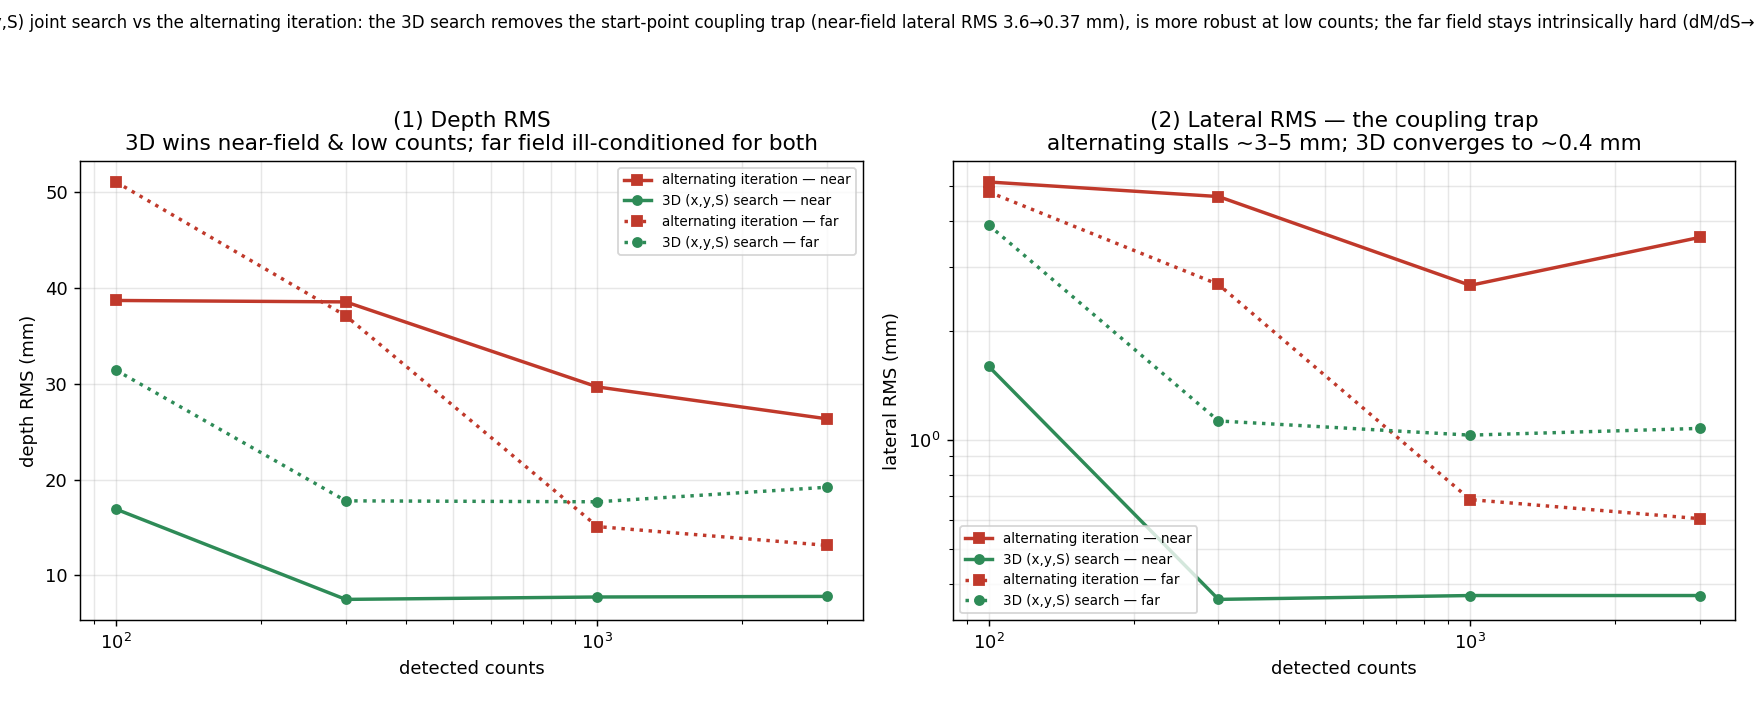
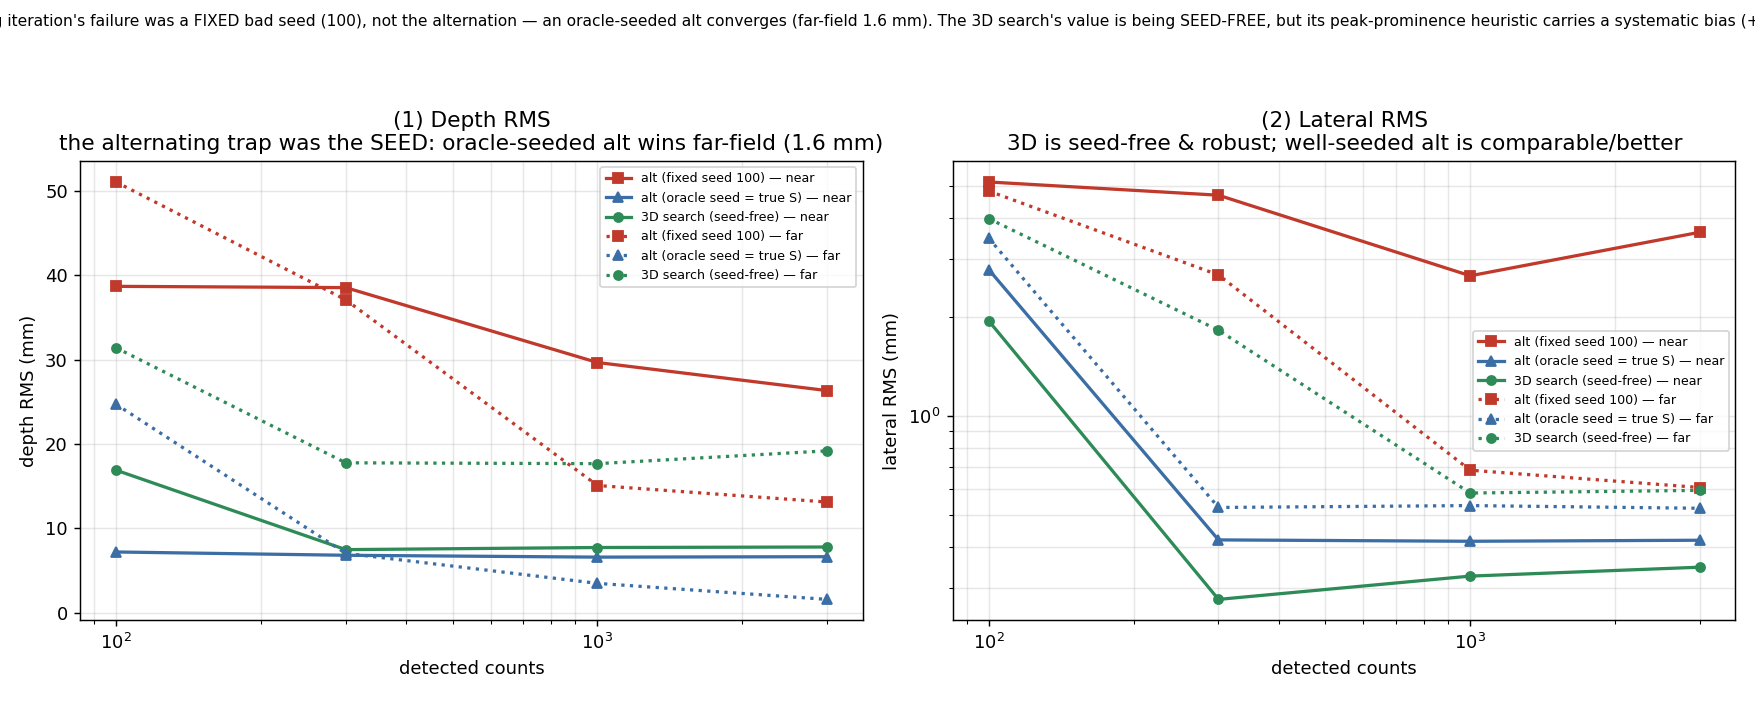
Apply Codex round-5 depth fixes: the alternating trap was the SEED
Codex challenged the theme-24 "3D decisively wins" claim. A fair 3-way comparison
(fixed seed 100 / oracle seed = true S / seed-free 3D) added to RunDepth3D shows:

- The alternating iteration's failure was the FIXED bad seed (100), not the alternation.
  Oracle-seeded alt converges: near-field lateral RMS 0.42mm; far-field depth RMS 1.6mm,
  bias 0.1 at 3000 counts -- BETTER than the 3D search everywhere, dramatically far-field.
- The 3D search's real value is being SEED-FREE. Its peak-prominence z is a HEURISTIC, not
  a calibrated GLRT/SNR (claim retracted): grid mean/std include the peak+sidelobes, giving
  a systematic bias (+7 near, -18 far) the single-point calibrated focus avoids.
- Best practice = hybrid: seed-free coarse pass to seed, alternating to refine.

Fixes: EstimateJoint3D now returns a self-consistent (x,y,S) -- lateral from the slice
nearest the depth estimate (not the global best-z slice); softened the GLRT language to
"heuristic"; RunDepth3D runs all three methods; findings 24 rewritten; test comment noted.
26 tests green.

Claude-Session: https://claude.ai/code/session_01JzXSNQYoWEuh1nUS9rXAso

diff --git a/src/Genoray.MonteCarlo.Simulation/DepthStudy.cs b/src/Genoray.MonteCarlo.Simulation/DepthStudy.cs
@@ -141,23 +141,25 @@ public sealed class DepthStudy
     }
 
     /// <summary>
-    /// Full 3D (x, y, S) joint estimate — replaces the alternating iteration and its start-point
-    /// trap. For each assumed S, decode the flood over the lateral FCFOV grid and score that slice by
-    /// its peak PROMINENCE z = (peak − grid mean)/grid std — a dimensionless, cross-S-comparable
-    /// detection statistic (the coded-aperture matched-filter SNR ≈ a GLRT). The lateral estimate is
-    /// the argmax over the whole volume; the depth is the centroid of the per-S peak-prominence
-    /// profile (same plateau-robust estimator as the on-axis depth). No nominal-S seed, no alternation.
+    /// Full 3D (x, y, S) joint estimate — replaces the alternating iteration and its start-point trap.
+    /// For each assumed S, decode the flood over the lateral FCFOV grid and score that slice by its peak
+    /// PROMINENCE z = (peak − grid mean)/grid std. NOTE: z is a HEURISTIC focus/detection score, not a
+    /// calibrated GLRT/SNR — the grid mean/std include the peak and sidelobes, so it can carry a
+    /// systematic bias across defocus (hence the far-field high-count bias). The depth is the
+    /// plateau-robust centroid of the per-S z-profile; the lateral (x, y) is taken from the slice
+    /// NEAREST that depth estimate (so (x, y, S) is self-consistent — same assumed-S plane). No
+    /// nominal-S seed, no alternation.
     /// </summary>
     private (double x, double y, double s) EstimateJoint3D(SimulationConfig cfg, DetectorImage img,
                                                            double[] assumedSmm)
     {
         var g = MuraGenerator.DecodingArray(cfg.Mask.Rank);
         var profile = new List<DepthRow>(assumedSmm.Length);
-        double bestZ = double.NegativeInfinity, bx = 0.0, by = 0.0;
+        var lateral = new (double x, double y)[assumedSmm.Length];   // per-slice argmax position
 
-        foreach (double s in assumedSmm)
+        for (int si = 0; si < assumedSmm.Length; si++)
         {
-            var dr = new CrossCorrelationDecoder(g, LateralGeometry(cfg, s)).Decode(img);
+            var dr = new CrossCorrelationDecoder(g, LateralGeometry(cfg, assumedSmm[si])).Decode(img);
             var recon = dr.Reconstruction;
             int n = recon.Width * recon.Height;
             double mean = 0.0; foreach (var v in recon.Raw) mean += v; mean /= n;
@@ -169,17 +171,19 @@ public sealed class DepthStudy
                 for (int x = 0; x < recon.Width; x++)
                     if (recon[x, y] > peak) { peak = recon[x, y]; px = x; py = y; }
 
-            double z = (peak - mean) / std;              // peak prominence: comparable across S
-            profile.Add(new DepthRow(s, z));
-            if (z > bestZ)
-            {
-                bestZ = z;
-                bx = dr.ReconOriginMm + px * dr.ReconStepMm;
-                by = dr.ReconOriginMm + py * dr.ReconStepMm;
-            }
+            profile.Add(new DepthRow(assumedSmm[si], (peak - mean) / std));
+            lateral[si] = (dr.ReconOriginMm + px * dr.ReconStepMm, dr.ReconOriginMm + py * dr.ReconStepMm);
         }
+
         double sEst = CentroidEstimate(profile);          // plateau-robust depth from the z-profile
-        return (bx, by, sEst);
+        // Lateral from the slice closest to the depth estimate -> a self-consistent (x, y, S).
+        int nearest = 0; double bestGap = double.PositiveInfinity;
+        for (int si = 0; si < assumedSmm.Length; si++)
+        {
+            double gap = Math.Abs(assumedSmm[si] - sEst);
+            if (gap < bestGap) { bestGap = gap; nearest = si; }
+        }
+        return (lateral[nearest].x, lateral[nearest].y, sEst);
     }
 
     /// <summary>Iterated joint estimate: alternate lateral decode (at the current depth) and depth

diff --git a/samples/plot_depth3d.py b/samples/plot_depth3d.py
@@ -18,34 +18,34 @@ def sel(method, scen, key):
     return (np.array([float(r["counts"]) for r in rs]),
             np.array([float(r[key]) for r in rs]))
 
-sty = {"alternating": ("#c0392b", "--", "s"), "3d": ("#2e8b57", "-", "o")}
-lab = {"alternating": "alternating iteration", "3d": "3D (x,y,S) search"}
+sty = {"alternating": ("#c0392b", "s", "alt (fixed seed 100)"),
+       "alt_oracle":  ("#3b6ea5", "^", "alt (oracle seed = true S)"),
+       "3d":          ("#2e8b57", "o", "3D search (seed-free)")}
 
 fig, (ax1, ax2) = plt.subplots(1, 2, figsize=(13.5, 5.4))
 
-for scen, mk_over in [("offaxis_near", ""), ("offaxis_far", " (far)")]:
+for scen in ("offaxis_near", "offaxis_far"):
     dash = "-" if scen == "offaxis_near" else ":"
-    for method in ("alternating", "3d"):
-        col, _, mk = sty[method]
+    tag = "near" if scen == "offaxis_near" else "far"
+    for method, (col, mk, lab) in sty.items():
         c, rms = sel(method, scen, "depth_rms_mm")
-        ax1.plot(c, rms, marker=mk, ls=dash, color=col, lw=1.9, ms=5,
-                 label=f"{lab[method]} — {'near' if scen=='offaxis_near' else 'far'}")
+        ax1.plot(c, rms, marker=mk, ls=dash, color=col, lw=1.8, ms=5, label=f"{lab} — {tag}")
         c, lrms = sel(method, scen, "lateral_rms_mm")
-        ax2.plot(c, lrms, marker=mk, ls=dash, color=col, lw=1.9, ms=5,
-                 label=f"{lab[method]} — {'near' if scen=='offaxis_near' else 'far'}")
+        ax2.plot(c, lrms, marker=mk, ls=dash, color=col, lw=1.8, ms=5, label=f"{lab} — {tag}")
 
 ax1.set_xscale("log"); ax1.set_xlabel("detected counts"); ax1.set_ylabel("depth RMS (mm)")
-ax1.set_title("(1) Depth RMS\n3D wins near-field & low counts; far field ill-conditioned for both")
-ax1.legend(fontsize=7.5); ax1.grid(alpha=0.3, which="both")
+ax1.set_title("(1) Depth RMS\nthe alternating trap was the SEED: oracle-seeded alt wins far-field (1.6 mm)")
+ax1.legend(fontsize=7); ax1.grid(alpha=0.3, which="both")
 
 ax2.set_xscale("log"); ax2.set_yscale("log")
 ax2.set_xlabel("detected counts"); ax2.set_ylabel("lateral RMS (mm)")
-ax2.set_title("(2) Lateral RMS — the coupling trap\nalternating stalls ~3–5 mm; 3D converges to ~0.4 mm")
-ax2.legend(fontsize=7.5); ax2.grid(alpha=0.3, which="both")
+ax2.set_title("(2) Lateral RMS\n3D is seed-free & robust; well-seeded alt is comparable/better")
+ax2.legend(fontsize=7); ax2.grid(alpha=0.3, which="both")
 
-fig.suptitle("Full 3D (x,y,S) joint search vs the alternating iteration: the 3D search removes the start-point "
-             "coupling trap (near-field lateral RMS 3.6→0.37 mm), is more robust at low counts; the far field stays "
-             "intrinsically hard (dM/dS→0) for both.", fontsize=9.3)
+fig.suptitle("Joint (x,y,S) depth, honestly: the alternating iteration's failure was a FIXED bad seed (100), not the "
+             "alternation — an oracle-seeded alt converges (far-field 1.6 mm). The 3D search's value is being SEED-FREE, "
+             "but its peak-prominence heuristic carries a systematic bias (+7/−18 mm). Best: 3D to seed, alt to refine.",
+             fontsize=8.6)
 fig.tight_layout(rect=[0, 0, 1, 0.93])
 out = os.path.join(here, "depth3d.png")
 fig.savefig(out, dpi=130); print("saved", out)

diff --git a/src/Genoray.MonteCarlo.Cli/Program.cs b/src/Genoray.MonteCarlo.Cli/Program.cs
@@ -383,25 +383,31 @@ static int RunDepth3D(string[] args)
     var all = new List<JointResult>();
     var csv = new System.Text.StringBuilder("method,scenario,true_x_mm,true_y_mm,true_s_mm,counts,depth_bias_mm,depth_rms_mm,lateral_rms_mm\n");
 
-    Console.WriteLine("  scenario        counts   method        depthBias  depthRMS  latRMS");
-    Console.WriteLine("  -------------   ------   -----------   ---------  --------  ------");
+    Console.WriteLine("  scenario        counts   method             depthBias  depthRMS  latRMS");
+    Console.WriteLine("  -------------   ------   ----------------   ---------  --------  ------");
     foreach (var sc in scenes)
     {
         foreach (double n in counts)
         {
+            // Fair comparison: alternating with the FIXED seed (100), alternating with an ORACLE seed
+            // (= true S, best case), and the seed-free 3D search. If alternating still stalls even with
+            // the oracle seed, the near-field win is the estimator, not just a bad seed.
             var it = study.RunNoisyJoint(baseConfig, sc.name, sc.x, sc.y, sc.s, assumed.ToArray(), nominalS, n, repeats);
+            var ito = study.RunNoisyJoint(baseConfig, sc.name, sc.x, sc.y, sc.s, assumed.ToArray(), sc.s, n, repeats);
             var d3 = study.RunNoisyJoint3D(baseConfig, sc.name, sc.x, sc.y, sc.s, assumed.ToArray(), n, repeats);
             all.Add(it); all.Add(d3);
-            Console.WriteLine($"  {sc.name,-13}   {n,5:F0}   alternating   {it.DepthBiasMm,6:F1}mm   {it.DepthRmsMm,5:F1}mm  {it.LateralRmsMm,5:F2}mm");
-            Console.WriteLine($"  {sc.name,-13}   {n,5:F0}   3D search     {d3.DepthBiasMm,6:F1}mm   {d3.DepthRmsMm,5:F1}mm  {d3.LateralRmsMm,5:F2}mm");
+            Console.WriteLine($"  {sc.name,-13}   {n,5:F0}   alt (seed 100)     {it.DepthBiasMm,6:F1}mm   {it.DepthRmsMm,5:F1}mm  {it.LateralRmsMm,5:F2}mm");
+            Console.WriteLine($"  {sc.name,-13}   {n,5:F0}   alt (oracle seed)  {ito.DepthBiasMm,6:F1}mm   {ito.DepthRmsMm,5:F1}mm  {ito.LateralRmsMm,5:F2}mm");
+            Console.WriteLine($"  {sc.name,-13}   {n,5:F0}   3D search          {d3.DepthBiasMm,6:F1}mm   {d3.DepthRmsMm,5:F1}mm  {d3.LateralRmsMm,5:F2}mm");
             csv.Append($"alternating,{sc.name},{sc.x:F1},{sc.y:F1},{sc.s:F1},{n:F0},{it.DepthBiasMm:F2},{it.DepthRmsMm:F2},{it.LateralRmsMm:F3}\n");
+            csv.Append($"alt_oracle,{sc.name},{sc.x:F1},{sc.y:F1},{sc.s:F1},{n:F0},{ito.DepthBiasMm:F2},{ito.DepthRmsMm:F2},{ito.LateralRmsMm:F3}\n");
             csv.Append($"3d,{sc.name},{sc.x:F1},{sc.y:F1},{sc.s:F1},{n:F0},{d3.DepthBiasMm:F2},{d3.DepthRmsMm:F2},{d3.LateralRmsMm:F3}\n");
         }
         Console.WriteLine();
     }
     File.WriteAllText("samples/depth3d.csv", csv.ToString());
-    Console.WriteLine("The 3D search removes the alternating iteration's start-point coupling trap; compare the");
-    Console.WriteLine("depth bias/RMS (esp. off-axis far, where the alternation was worst). CSV: samples/depth3d.csv");
+    Console.WriteLine("If 'alt (oracle seed)' still stalls near-field but the 3D search converges, the win is the");
+    Console.WriteLine("seed-free estimator, not just the seed. CSV: samples/depth3d.csv");
     return 0;
 }
 

diff --git a/tests/Genoray.MonteCarlo.Tests/DepthTests.cs b/tests/Genoray.MonteCarlo.Tests/DepthTests.cs
@@ -60,9 +60,10 @@ public class DepthTests
     [Fact]
     public void Joint3D_BeatsAlternating_OnNearFieldCoupling()
     {
-        // The alternating iteration stalls on near-field off-axis coupling (lateral RMS ~mm that
-        // doesn't shrink with counts). The full 3D (x,y,S) search removes the trap -> much lower
-        // lateral RMS at the same budget.
+        // The alternating iteration with a FIXED nominal seed (100) stalls on near-field off-axis
+        // coupling (true S=60, so the seed is far off). The seed-free 3D search removes that trap.
+        // NOTE (Codex round 5): a well-SEEDED alternating iteration converges too — the trap was the
+        // seed, not the alternation; the 3D search's value is being seed-free. See AGENTS.findings 24.
         var study = new DepthStudy(new DefaultSimulationFactory());
         var alt = study.RunNoisyJoint(Baseline(), "near", sx: 5.0, sy: 0.0, trueSmm: 60.0,
                                       Assumed(), nominalSmm: 100.0, counts: 1000, repeats: 40);

diff --git a/AGENTS.findings.md b/AGENTS.findings.md
@@ -512,23 +512,27 @@ Two backlog items closing the mask-geometry thread.
 
 ---
 
-## 24. Full 3D (x,y,S) joint depth search — replaces the alternating iteration — `DepthStudy.RunNoisyJoint3D`
-Theme 19's joint estimator alternated (lateral decode at the current S → depth focus at the current x,y,
-×3, seeded at a nominal S) and stalled on near-field off-axis coupling. The 3D search (`montecarlo depth3d`
-→ `samples/depth3d.png`) evaluates every assumed S: decode the flood over the lateral FCFOV grid, score
-that slice by its **peak prominence z = (peak − grid mean)/grid std** — a dimensionless, cross-S-comparable
-detection statistic (the coded matched-filter SNR ≈ a GLRT) — then take the joint argmax over the whole
-(x,y,S) volume; depth = the plateau-robust centroid of the per-S z-profile. No nominal-S seed, no alternation.
-- **Near field (S=60, off-axis): the 3D search decisively removes the coupling trap.** Lateral RMS
-  **3.6 → 0.37 mm** and depth RMS **26 → 7.5 mm** at 3000 counts (the alternating iteration *stalled* — its
-  lateral RMS never shrank with counts). Also more robust at low counts (100–300) in both near and far.
-- **Far field (S=150): intrinsically ill-conditioned for both** (dM/dS→0). The 3D is better at low counts
-  but carries a modest persistent depth bias (~−18 mm) from the broad z-profile; the seeded alternating's
-  bias happens to be a bit smaller at high counts (its nominal-S seed sits near the truth — a seed artifact,
-  not robustness). Neither beats ~10 % of the distance far-field.
-- Verdict: the 3D search is the principled, seed-free estimator and the clear winner where depth is
-  recoverable (near field); the far field stays limited by the physics, not the estimator.
-- Locked in by `DepthTests.Joint3D_BeatsAlternating_OnNearFieldCoupling`. Reproduce: `montecarlo depth3d`.
+## 24. Joint (x,y,S) depth — the alternating trap was the SEED, not the alternation — `DepthStudy.RunNoisyJoint3D`
+Theme 19's joint estimator alternated (lateral decode at current S → depth focus at current x,y, ×3) from a
+**fixed** nominal S (100) and stalled on off-axis coupling. I built a seed-free full 3D search
+(`EstimateJoint3D`, `montecarlo depth3d` → `samples/depth3d.png`): for each assumed S, decode the lateral
+FCFOV grid and score the slice by its **peak prominence z = (peak − grid mean)/grid std**; depth = the
+plateau-robust centroid of the per-S z-profile, lateral = the argmax of the slice NEAREST that depth (so
+(x,y,S) is self-consistent). **Codex round 5 forced an honest reckoning** — a fair 3-way comparison (fixed
+seed 100 / oracle seed = true S / seed-free 3D) shows:
+- **The alternating iteration's failure was the FIXED BAD SEED, not the alternation.** With an oracle seed it
+  converges well: near-field (S=60) lateral RMS **0.42 mm**; far-field (S=150) depth RMS **1.6 mm, bias 0.1**
+  at 3000 counts — *better than the 3D search everywhere*, dramatically so far-field.
+- **The 3D search's real value is being SEED-FREE** (no initial guess). Near field it converges (lateral RMS
+  0.35 mm, comparable to oracle-alt) but its **peak-prominence z is a HEURISTIC, not a calibrated GLRT/SNR**
+  (retracted that claim): the grid mean/std include the peak+sidelobes, giving a **systematic bias (+7 mm
+  near, −18 mm far)** that the single-point calibrated focus (theme 18) avoids. So 3D is robust but biased.
+- **Best practice = hybrid**: a coarse/seed-free pass (3D or the on-axis `RunNoisyDepth`) to SEED, then the
+  alternating iteration (calibrated single-point focus) to REFINE → robust AND unbiased. Neither alone wins.
+- Far field stays physics-limited only for the *unseeded* estimators; a well-seeded refine reaches ~1 % of
+  the distance. `RunDepth3D` now runs all three methods so the seed effect is explicit.
+- `Joint3D_BeatsAlternating_OnNearFieldCoupling` still holds (3D beats the FIXED-seed alt — the original
+  documented failure). Reproduce: `montecarlo depth3d`.
 
 ---
 
